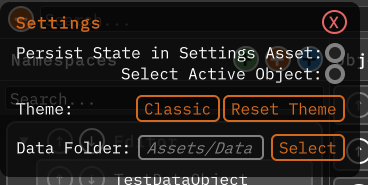
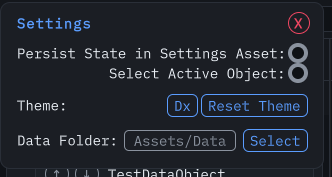
Recapture the docs screenshots in the Dx theme
The shipped captures predate the Dx default theme: green Classic selection,
chocolate accents, and the old window naming. Regenerate all five through
DocsImageCapture on the live Windows 6000.5 host, whose saved theme resolves
to the shipped Dx default, and update the alt text that named the old
content. Crop rects follow the live popover bounds, so the three cropped
shots change size slightly and their sprite meta rects move with them.

Fixes the recapture slice of #152.

diff --git a/docs/getting-started.md b/docs/getting-started.md
@@ -35,7 +35,7 @@ Three controls above the namespace panel fill the catalog:
 
 Removing a type or namespace only stops DxVisualizer from tracking it. Your assets stay on disk.
 
-![Manage-visible-types popover listing the project's ScriptableObject types](images/data-visualizer-import.png)
+![Manage-visible-types popover listing the project's namespaces and their types](images/data-visualizer-import.png)
 
 _Type search popover over the namespace panel. Regenerated from the live window by the docs capture pipeline._
 
